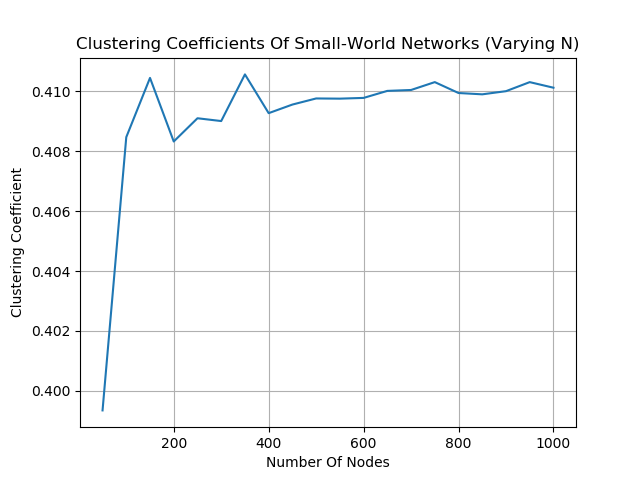
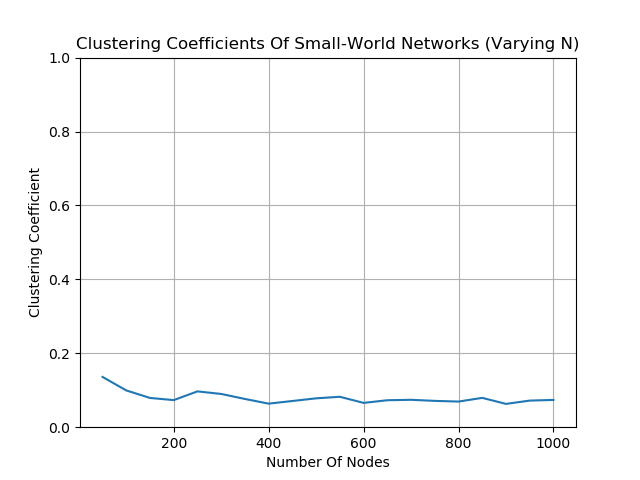
Attempted curve fitting for scale free networks. Also improved the Small-World networks results (neighbouring nodes number =/= average degree).

diff --git a/Scale-Free Networks - Clustering Coefficients.py b/Scale-Free Networks - Clustering Coefficients.py
@@ -11,6 +11,10 @@ from SupportingFunctions import Distribution_Analysis_Functions
 from SupportingFunctions import Input_Output_Support_Functions as IO
 
 
+def ExpectedScaleFreeClusteringCurve(xArray):
+    return xArray**(-0.75)
+
+
 #--------------------------------------------------------------------------------------------------
 # This section looks at a fixed probability value and varying node number, to determine how the
 # clustering coefficient changes over a range of N.
@@ -18,29 +22,29 @@ from SupportingFunctions import Input_Output_Support_Functions as IO
 #
 # Initialise the probability and N array.
 probability = 0.50
-N_Array = np.arange(50, 1050, 50)
+N_Array = np.arange(50, 3050, 50)
 
 #proportionOfAverageDegree = 20/50
-
-
-# Create the adjacency matrices for varying N.
-scaleFrees_G = [None] * len(N_Array)
-
-
-for i in range(0, N_Array.shape[0]):
-
-    scaleFrees_G[i] = nx.from_numpy_matrix(  nx.to_numpy_matrix(  nx.scale_free_graph(int(N_Array[i]))  )   )
-    
-    print('N = ' + str(N_Array[i]) + ' Generated')
-
                
 # Compute the clustering coefficient values.
 clusteringCoefficientArray = np.zeros(N_Array.shape[0])
 
+
+
 for i in range(0, N_Array.shape[0]):
+
+    sum = 0
+    numberOfRepeats = 10
+
+    for j in range(numberOfRepeats):
+        scaleFrees_G = nx.from_numpy_matrix(  nx.to_numpy_matrix(  nx.scale_free_graph(int(N_Array[i]))  )   )
+        sum += nx.average_clustering(scaleFrees_G)
     
-    clusteringCoefficientArray[i] = nx.average_clustering(scaleFrees_G[i])
+    clusteringCoefficientArray[i] = sum / numberOfRepeats
+
     print ("N = " + str(N_Array[i]) + ", Coefficient = " + str(clusteringCoefficientArray[i]))
+
+
 
 # Output the data to a .txt file.
 fileDestination = 'NetworkTypes/ScaleFree_Network/AverageClusteringCoefficients (Varying N).txt'
@@ -53,6 +57,9 @@ N_Array, clusteringCoefficientArray = IO.ReadPlottingDataFromTxtFile(fileDestina
 # Plot the resulting data.
 plt.figure()
 plt.plot(N_Array, clusteringCoefficientArray)
+
+curveArray = np.linspace(N_Array[0], N_Array[len(N_Array)-1], 1000)
+plt.plot(curveArray, ExpectedScaleFreeClusteringCurve(curveArray))
 
 plt.ylim(0, 1)
 plt.xlabel("Number Of Nodes")

diff --git a/Small-World Networks - Clustering Coefficients.py b/Small-World Networks - Clustering Coefficients.py
@@ -28,8 +28,8 @@ smallWorlds_G = [None] * len(N_Array)
 
 for i in range(0, N_Array.shape[0]):
 
-    #averageDegree = 20
-    averageDegree = int(proportionOfAverageDegree * N_Array[i])
+    averageDegree = 5
+    #averageDegree = int(proportionOfAverageDegree * N_Array[i])
 
     smallWorlds_G[i] = nx.watts_strogatz_graph(int(N_Array[i]),
                                                int(averageDegree),
@@ -81,7 +81,7 @@ smallWorlds_G = [None] * len(N_Array)
 
 for i in range(0, P_Array.shape[0]):
 
-    averageDegree = 20
+    averageDegree = 5
 
     smallWorlds_G[i] = nx.watts_strogatz_graph(N,
                                                int(averageDegree),

diff --git a/Small-World Networks - Degree Distribution.py b/Small-World Networks - Degree Distribution.py
@@ -82,7 +82,7 @@ plt.savefig("Scale-Free Networks - LogLog Degree Distribution.png")
 '''
 
 #------------------------------------------------------------------------------------------
-# This section produces a fit for varioussmall-world networks.
+# This section produces a fit for various small-world networks.
 #------------------------------------------------------------------------------------------
 
 

diff --git a/SupportingFunctions/Distribution_Analysis_Functions.py b/SupportingFunctions/Distribution_Analysis_Functions.py
@@ -50,3 +50,6 @@ def LogCurve(xArray, coefficient):
     return coefficient*(np.log(xArray))
 
 
+def DiracDeltaFunction():
+
+    
